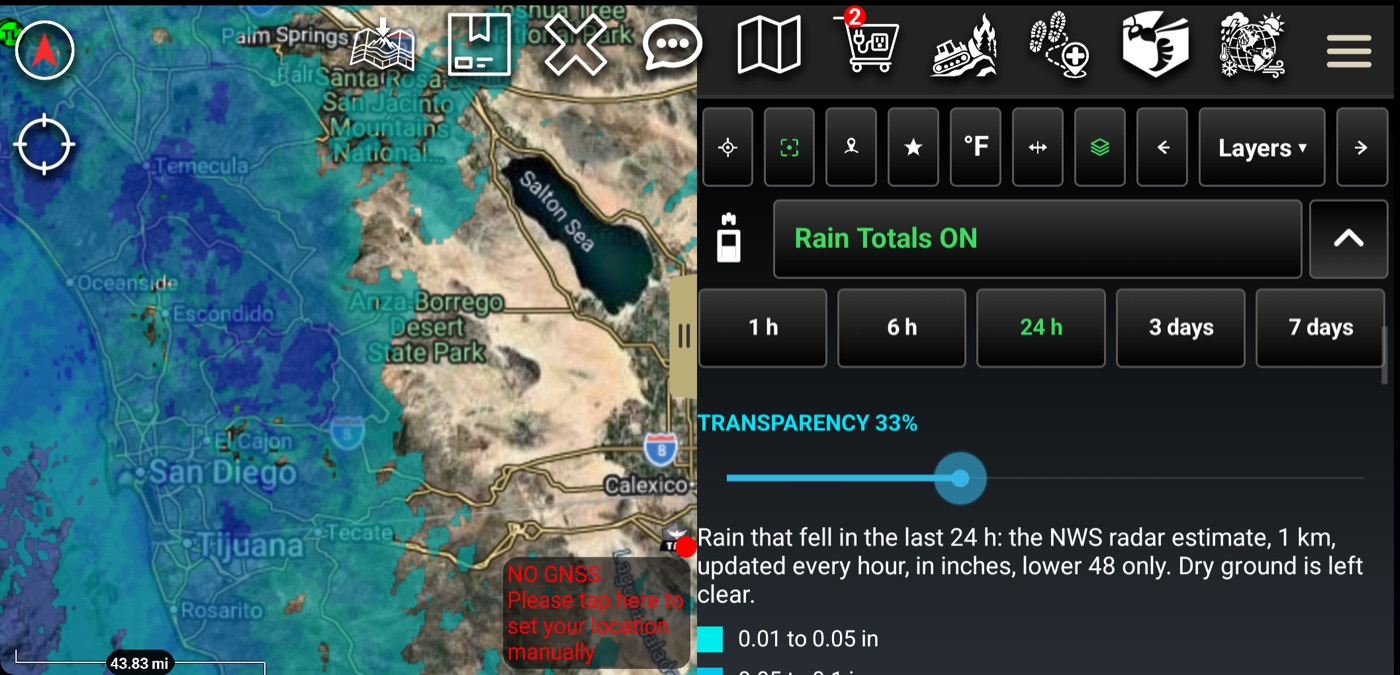
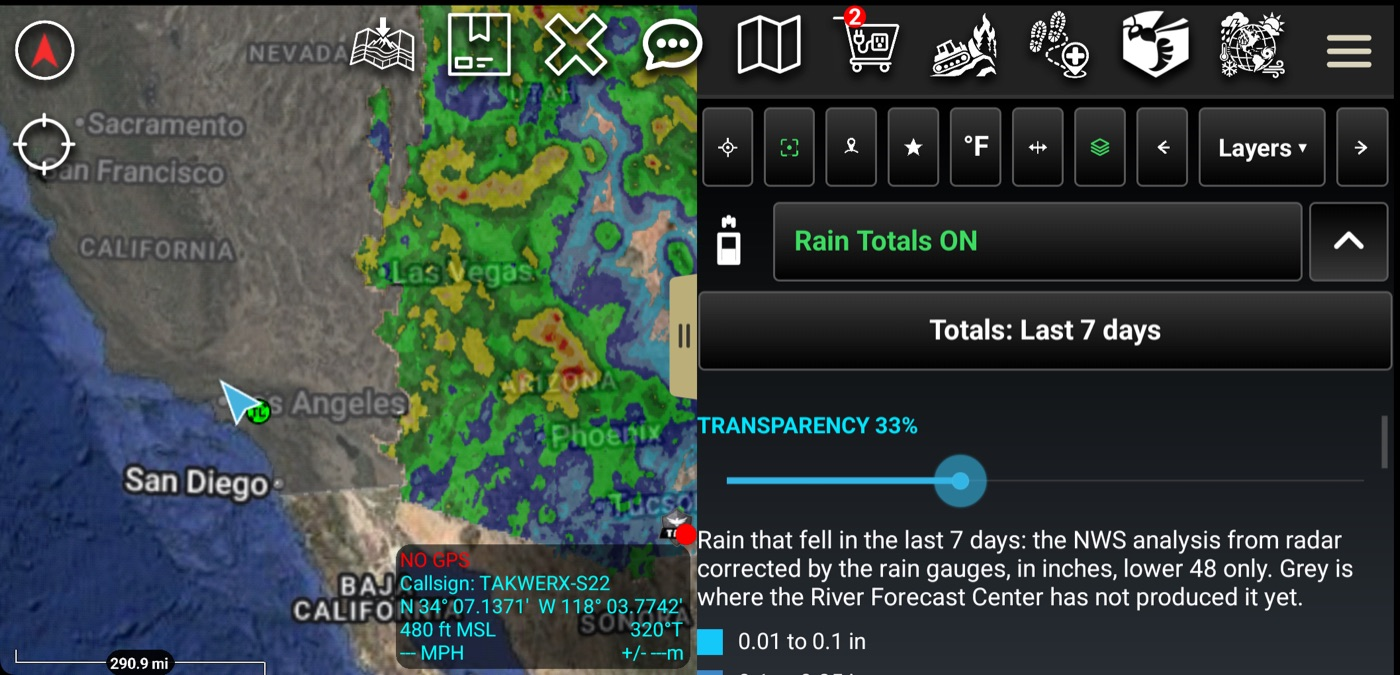
Atmosphere 0.15: pictures from the signed build
Rain Totals and Rain Gauges blocks, the Rain Gauges page and the office's
report table, gauges over the 7-day shading, the SAWTI page with its switch
and its zone outlined on the map, and the page tops that now start with
their layer switch (Storm Reports, Buoys, Stations, Spot Weather Forecast).
Guide and manual carry them; the manual compiles to 73 pages on typst 0.13.1.

diff --git a/plugins/Atmosphere/docs/USER_GUIDE.md b/plugins/Atmosphere/docs/USER_GUIDE.md
@@ -313,6 +313,8 @@ the SAWTI layer on. While the page is open, the zone it shows has a white
 outline on the map, so you can find it among the others; leave the page and the
 outline goes.
 
+<img src="screenshots/123_sawti_outline.jpg" width="560">
+
 <img src="screenshots/76_sawti_page_top.png" width="420"> <img src="screenshots/77_sawti_page_middle.png" width="420">
 
 <img src="screenshots/78_sawti_page_table.png" width="420"> <img src="screenshots/79_sawti_zone_picker.png" width="420">
@@ -511,6 +513,11 @@ the states under it are sent with the dates, not your position.
 
 <img src="screenshots/110_raingauges_block.jpg" width="420">
 
+With both layers on the same time, each dot sits on shading of its own color, so
+a gauge that caught more or less than the radar shows stands out:
+
+<img src="screenshots/113_rain_7d_gauges_on_totals.jpg" width="560">
+
 **The Rain Gauges page** has the Totals button at the top, then the gauges in
 the map's view, **Most rain first** or **Closest** to your point, with the
 miles on each row and a green **Go to** that flies the map in close and opens
@@ -523,7 +530,9 @@ offices publish such a report, Los Angeles and San Diego among them; it needs
 NWS as the forecast service. Its gauges are among the ones on the map, so the
 report is not drawn there.
 
-<img src="screenshots/111_rain_page.jpg" width="420">
+<img src="screenshots/111_rain_page.jpg" width="420"> <img src="screenshots/114_rain_gauges_7d.jpg" width="420">
+
+<img src="screenshots/122_rain_report_table.jpg" width="560">
 
 ## 11. Spot Weather Forecast
 
